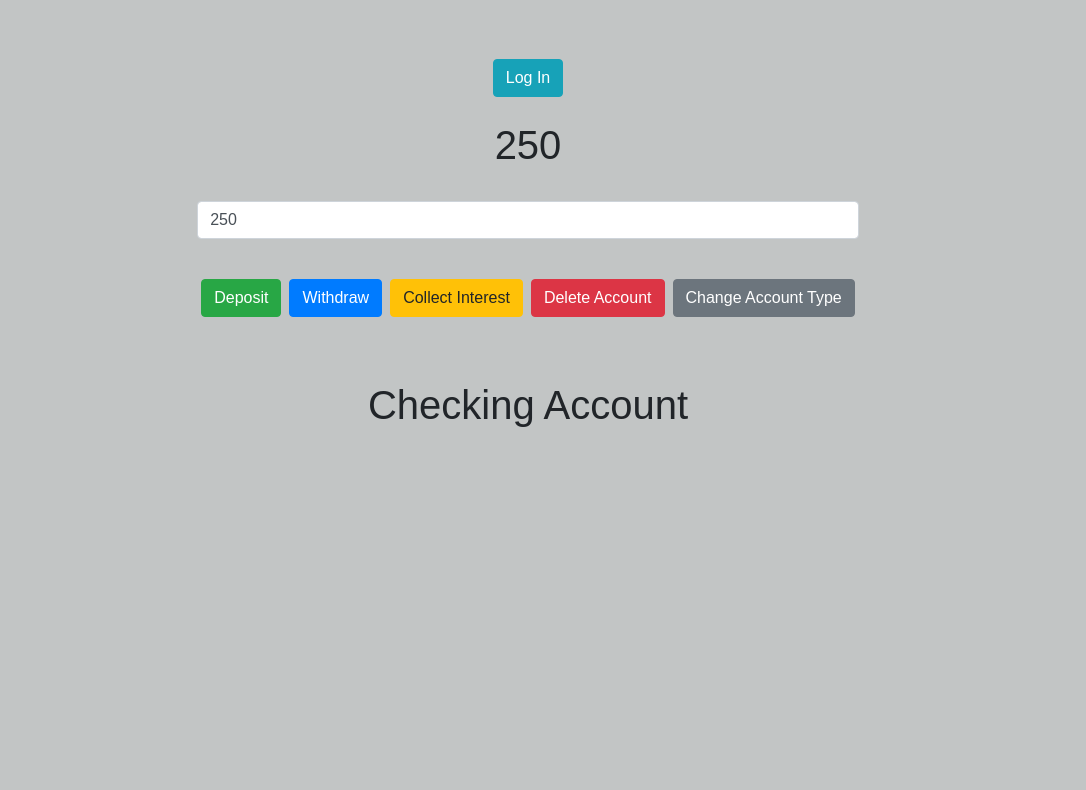
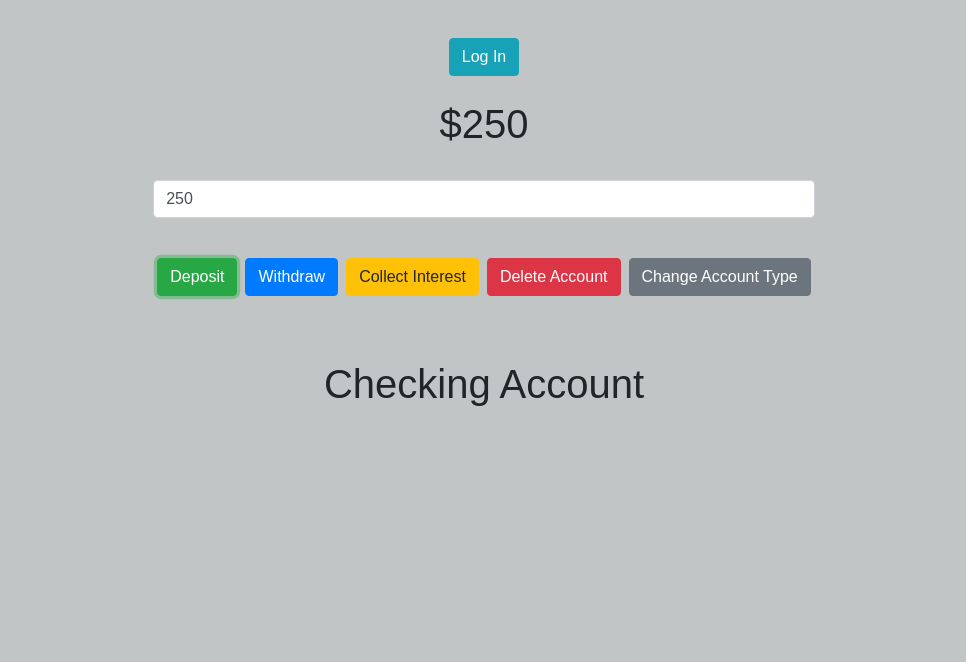
add currency sign

diff --git a/src/components/Balance.jsx b/src/components/Balance.jsx
@@ -5,7 +5,7 @@ const Balance = () => {
   const amount = useSelector((state) => state.banking.amount);
   return (
     <div className="mt-4">
-      <h1>{amount}</h1>
+      <h1>$ {amount}</h1>
     </div>
   );
 };
